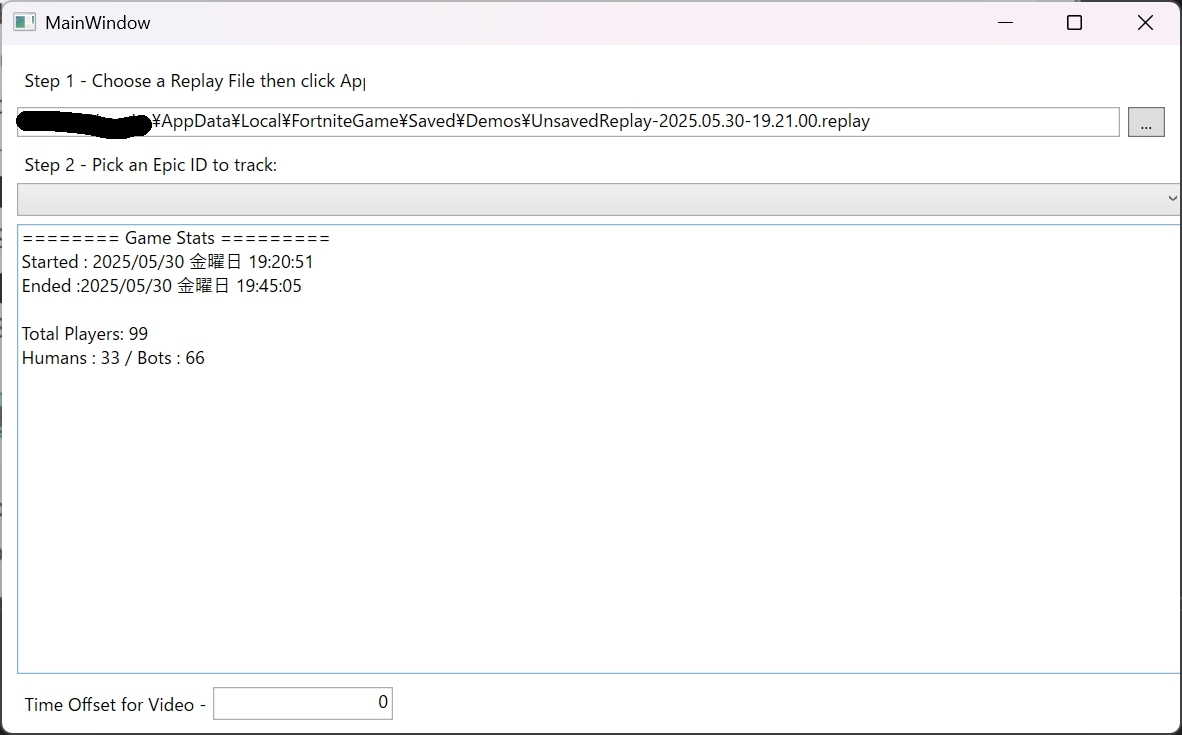
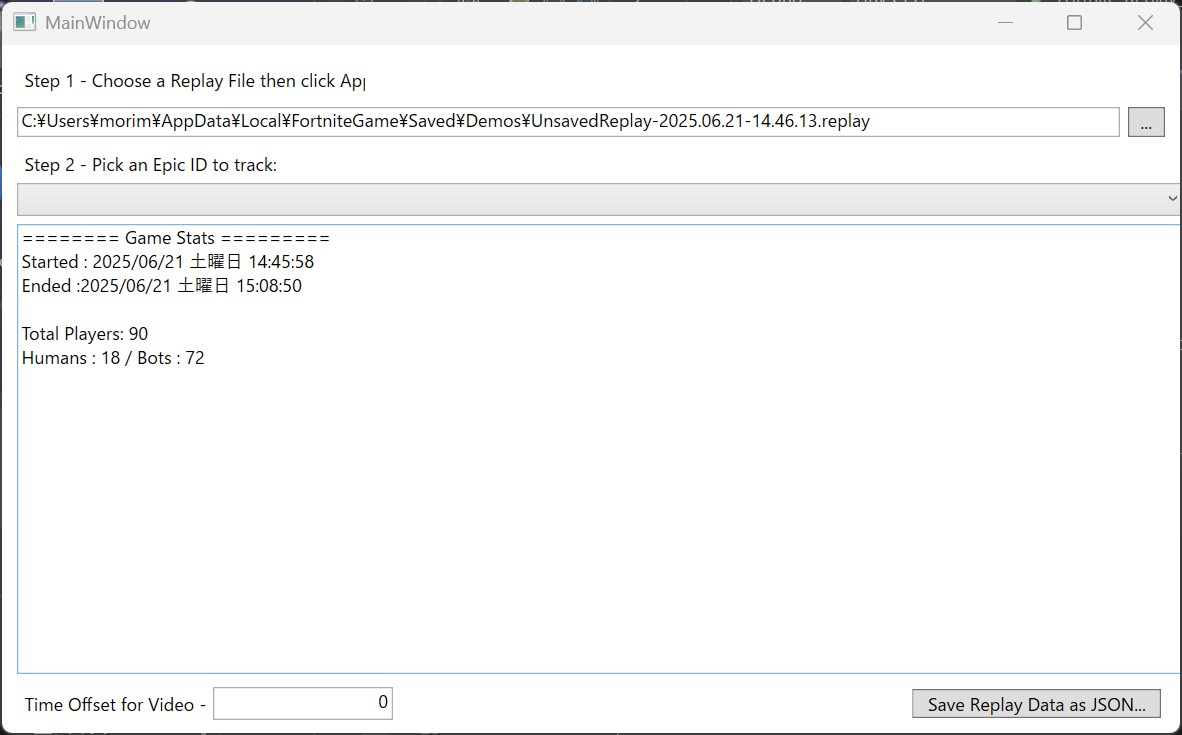
Update on Readme.

diff --git a/README.md b/README.md
@@ -30,6 +30,8 @@ PS D:\Fortnite_Replay_Parser_GUI> .\bin\Release\net9.0-windows\win-x64\publish\F
 4. Adjust offset to change the timing of termination events in seconds.
    - Accepts both positive/negative integer.
    - Useful for adjusting event timings on Video Recording. 
+5. Click "Save Replay Data as JSON..." to save the parsed result as a JSON file.
+
 ## Images
 ![Image1](./images/Image1.jpg)
 
